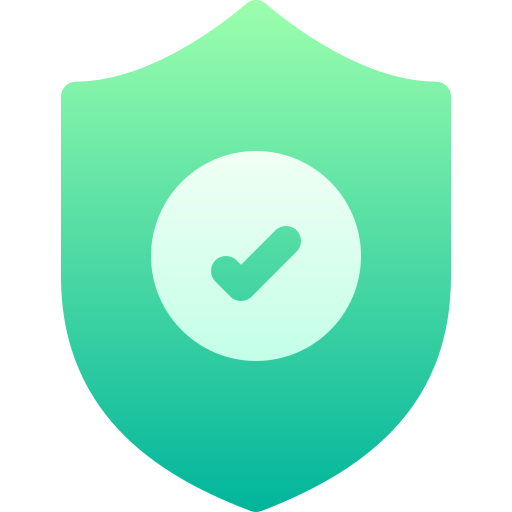
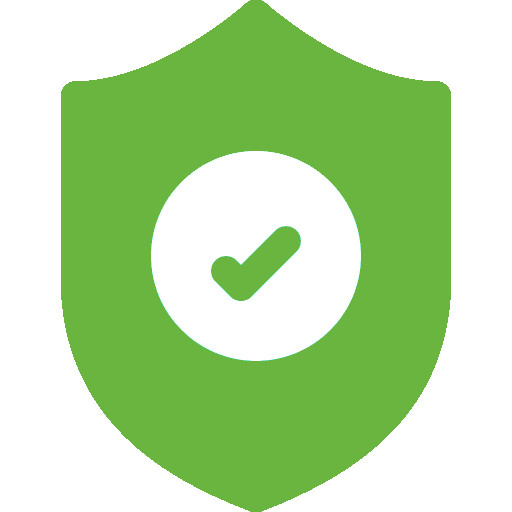
Updated news and item pictures

diff --git a/index.html b/index.html
@@ -90,7 +90,7 @@
              209.88,376.62 173.75,374.62 170.62,333.88
              170.62,333.88 170.82,137.36 170.82,137.36
              170.82,137.36 127.06,137.03 127.06,137.03 Z" />
-</svg>
+                </svg>
                 <h1><a href="index.html" id="title">Linux Mint</a></h1>
             </div>
 
@@ -124,7 +124,7 @@
                     <p>Designed for everyone with a clean and intuitive interface.</p>
                 </div>
                 <div class="feature-item">
-                    <h3><img class="feature-img" src="img/insurance.png"> Secure</h3>
+                    <h3><img class="feature-img" src="img/insurance2.png"> Secure</h3>
                     <p>Built with a focus on security and privacy.</p>
                 </div>
                 <div class="feature-item">
@@ -136,14 +136,38 @@
     </section>
 
     <section id="downloads" class="downloads">
-        <div class="container">
-            <h2>Downloads</h2>
-            <p>Get the latest version of Linux Mint for your system.</p>
-            <div class="download-links">
-                <a href="#" class="btn btn-grad">Download 64-bit</a>
-                <a href="#" class="btn btn-grad">Download 32-bit</a>
-            </div>
-        </div>
+        <div class="download-container">
+                <div class="download-links">
+                    <h2 id="m1">Download Latest Linux Mint 22</h2>
+                    <p>Get the latest version of Linux Mint for your system.</p>
+                        <div class="btn-dwn">
+                            <a href="#" class="btn btn-grad">Download 64-bit</a>
+                            <a href="#" class="btn btn-grad">Download 32-bit</a>
+                        </div>
+                </div>
+                <div>
+                    <h2 class="m22">Long term support releases 21</h2>
+                    <p>Long term support until April 2027.</p>
+                    <ul>
+                        <li><a class="link-list" href="#">21.3 Virginia</a></li>
+                        <li><a class="link-list" href="#">21.2 Victoria</a></li>
+                        <li><a class="link-list" href="#">21.1 Vera</a></li>
+                        <li><a class="link-list" href="#">More Versions...</a></li>
+
+                    </ul>
+                </div>
+                <div>
+                    <h2 class="m22">Long term support releases 20</h2>
+                    <p>Long term support until April 2025.</p>
+                    <ul>
+                        <li><a class="link-list" href="#">20.3 Una</a></li>
+                        <li><a class="link-list" href="#">20.2 Uma</a></li>
+                        <li><a class="link-list" href="#">20.1 Ulyssa</a></li>
+                        <li><a class="link-list" href="#">More Versions...</a></li>
+
+                    </ul>
+                </div>
+        </div> 
     </section>
 
     <section id="community" class="community">

diff --git a/style.css b/style.css
@@ -56,7 +56,7 @@ a:hover {
 }
 
 header {
-    background: linear-gradient(150deg, #218c41 0%, #3fb559 50%,#218c41);
+    background: linear-gradient(150deg, #218c41 0%, #68C174 50%,#218c41);
     border-bottom: 2px gray solid;
     color: #fff;
     padding: 1rem 0;
@@ -129,6 +129,29 @@ section {
     border-bottom: 1px solid #ddd;
 }
 
+
+.download-container {
+    display: flex;
+    justify-content: space-between;
+    width: 70%;
+    margin: auto;
+    max-width: 1200px;
+}
+
+.download-links {
+    display: block;
+    gap: 15px; 
+}
+
+.btn-dwn{
+    display: flex;
+    justify-content: space-between;
+    padding: 1rem;
+    /*background: rgb(231, 231, 231);
+    border: #69B53F 1px solid;
+    border-radius: 5px; */
+}
+
 .features .feature-list {
     display: flex;
     justify-content: space-between;
@@ -152,7 +175,7 @@ section {
 }
 
 footer {
-    background: linear-gradient(150deg, #218c41 0%, #3fb559 50%,#218c41);
+    background: linear-gradient(150deg, #218c41 0%, /*#3fb559*/#68C174 50%,#218c41);
     color: #fff;
     text-align: center;
     padding: 1rem 0;
@@ -241,7 +264,7 @@ footer a:hover {
 
 
 @media only screen and (max-width: 600px) {
-    .features>.container,
+    .features>.download-container,
     .feature-list {
         text-align: center;
         flex-direction: column;
@@ -279,4 +302,3 @@ footer a:hover {
         text-align: center;
     }
 }
-ikone neki spremen, vec contenta
